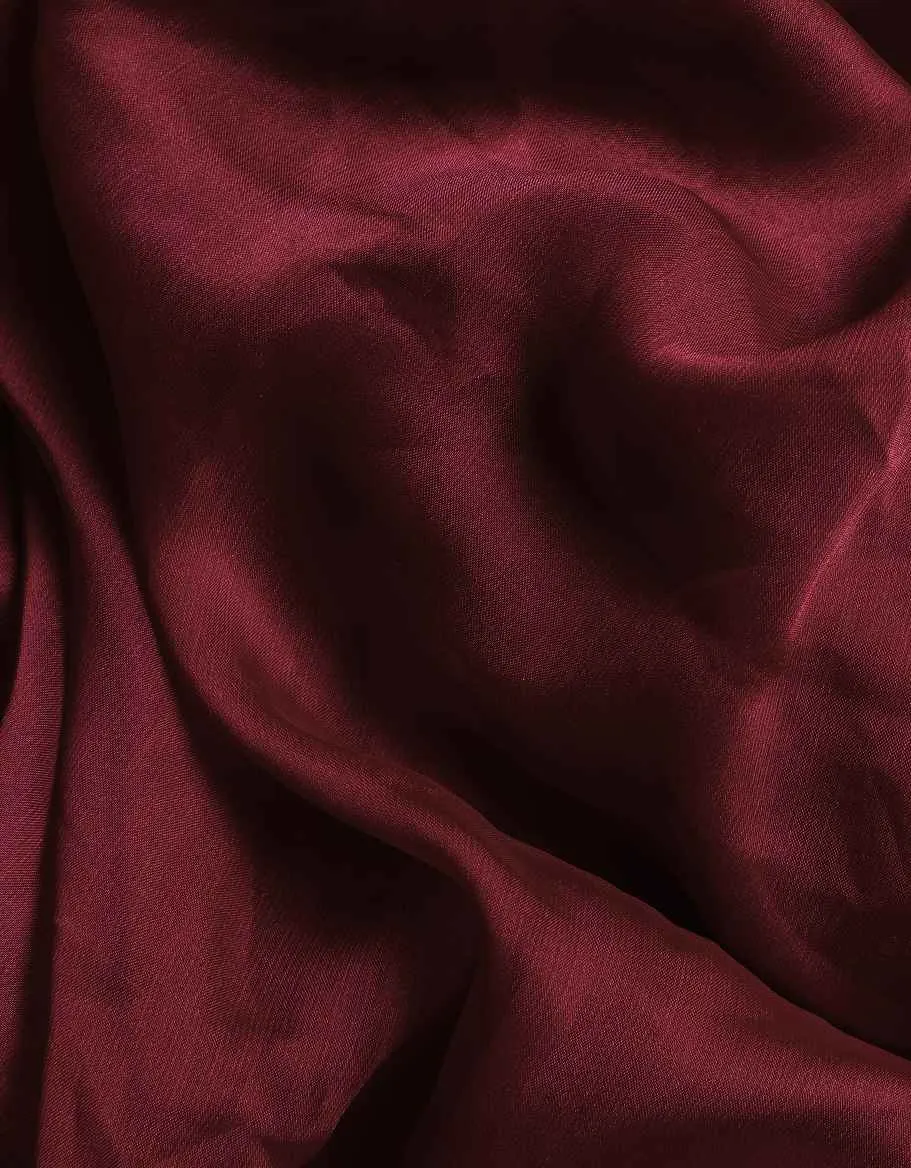
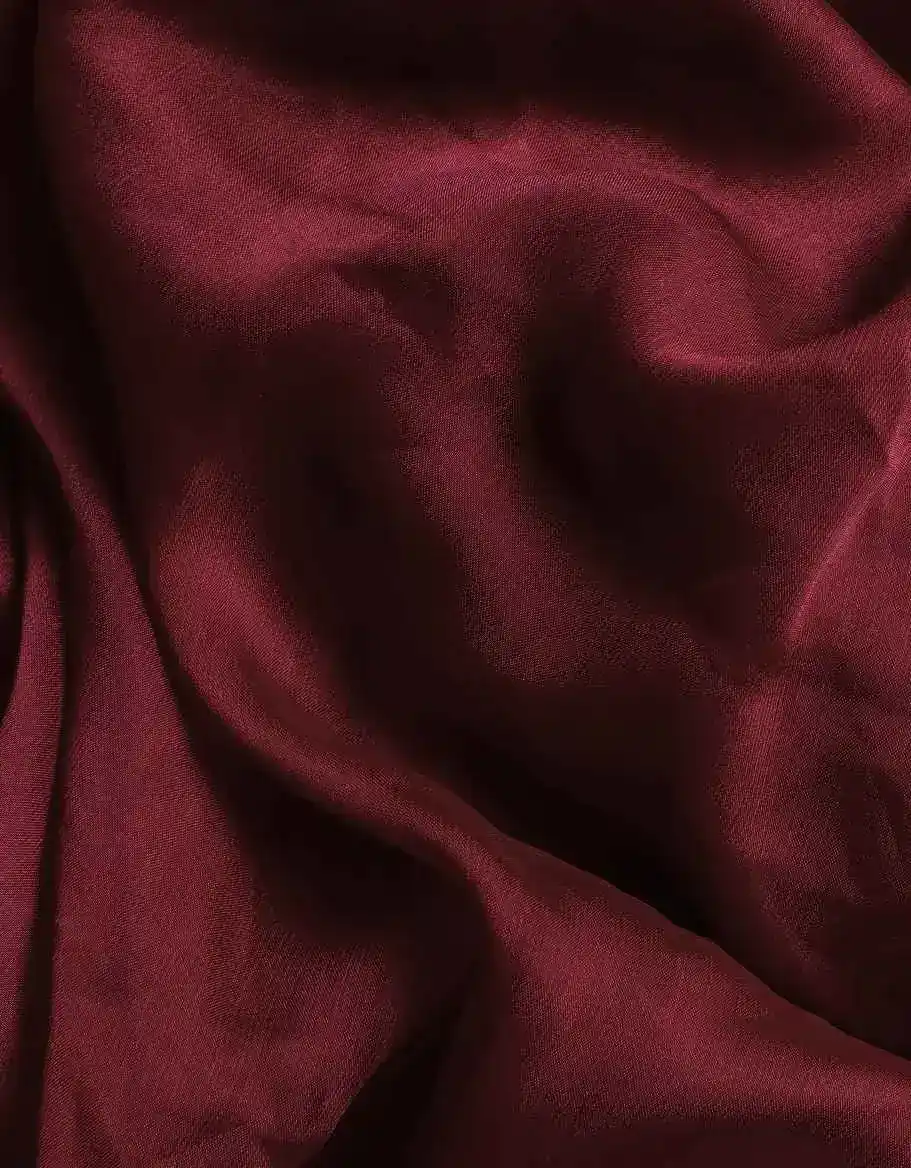
photo added webp

Changed region(s): [[0.1844, 0.7397, 0.2151, 0.7705]]

diff --git a/src/Components/Add to Cart/index.js b/src/Components/Add to Cart/index.js
@@ -125,7 +125,7 @@ const CartPopup = ({
       if (res.status === 200) {
         const updatedItems = orderDetails.filter((_, i) => i !== index);
         setOrderDetails(updatedItems);
-        // setCartCount(updatedItems.length);
+        setCartCount(updatedItems.length);
         localStorage.setItem("cartCount", updatedItems.length);
         toast.success("Removed from Cart!");
       }

diff --git a/src/Components/Home/index.js b/src/Components/Home/index.js
@@ -6,7 +6,7 @@ import { BiShoppingBag, BiSolidOffer } from "react-icons/bi";
 import Header from "../../Pages/Header";
 
 import { Swiper, SwiperSlide } from "swiper/react";
-import best from "../../Images/Mask group (9).png";
+import best from "../../Images/Mask group (9).webp";
 
 import { Pagination } from "swiper/modules";
 import "swiper/css";
